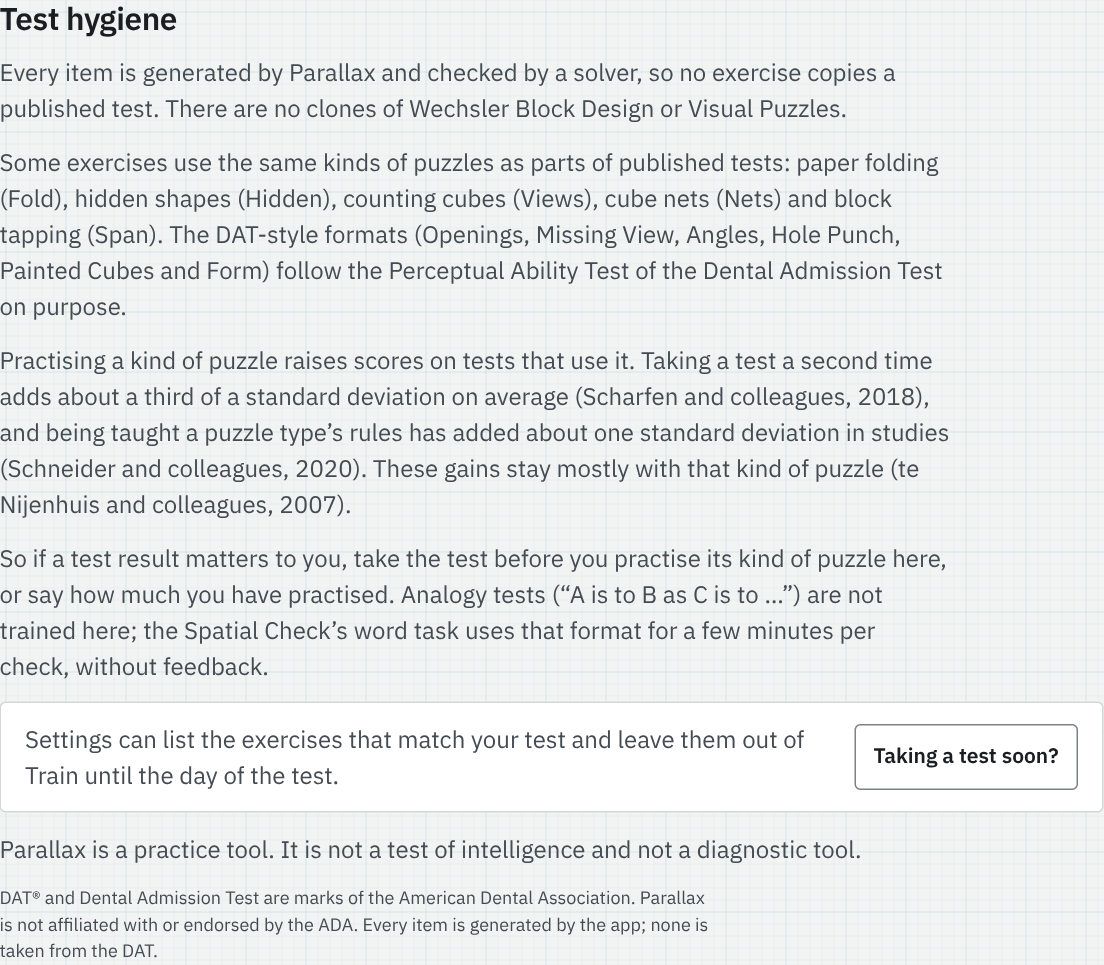
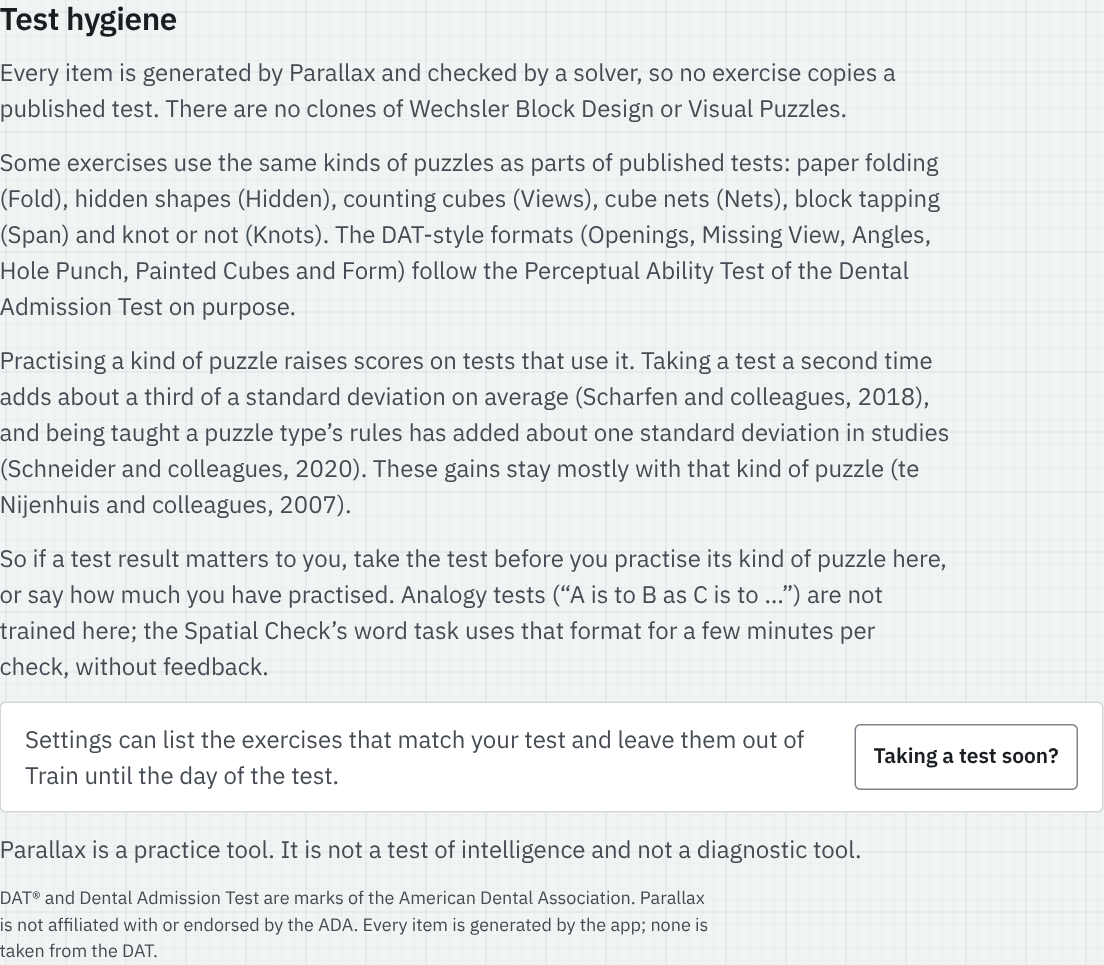
G1: guide finished with Reckon/Homing/Knots changes; figures re-shot; PDF 50 pages clean

Changed region(s): [[0.0, 0.1865, 0.8623, 0.342]]

diff --git a/docs/guide/guide.html b/docs/guide/guide.html
@@ -91,7 +91,7 @@
       </div>
       <div class="panel">
         <h3>Knots <span class="spec">EX-13</span></h3>
-        <p>Pull both ends: does a knot remain? Which marked crossing, switched, unties the rope, or ties it? Are two loops linked? Every answer is proved before you see the item, by the moves that take a rope apart, a determinant or the Jones polynomial, and Show me replays the proof. <span class="see">Page <span class="pgref" data-for="ex-knots"></span></span></p>
+        <p>Pull both ends: does a knot remain? Which marked crossing, switched, unties the rope, or ties it? Are two loops linked? Every answer is proved before you see the item, by the moves that take a rope apart, a determinant or the Jones polynomial; Show me replays the moves, checking each one. <span class="see">Page <span class="pgref" data-for="ex-knots"></span></span></p>
       </div>
       <div class="panel">
         <h3>Six DAT-style formats <span class="spec">EX-14 to EX-19</span></h3>
@@ -440,7 +440,7 @@
           <h3>Where spatial thinking is used</h3>
           <p>Each card says honestly where its skill shows up, with the limitation next to it. Rotate's reads: <i>"Chemists ask the same question about molecules (is this drawing the same molecule or its mirror image?). Engineers turn objects in their heads too. Practice here improves this kind of task and often similar ones; it has not been shown to improve grades or job performance."</i></p>
           <h3>Also in tests</h3>
-          <p>Exercises whose format parts of published tests share, such as Fold, Hidden, Views (counting), Nets, Span and the six test formats, carry an "Also in tests" note on their page and in How to play (page <span class="pgref" data-for="hygiene"></span>).</p>
+          <p>Exercises whose format parts of published tests share, such as Fold, Hidden, Views (counting), Nets, Span, Knots and the six test formats, carry an "Also in tests" note on their page and in How to play (page <span class="pgref" data-for="hygiene"></span>).</p>
           <h3>Same model, same answer</h3>
           <p>A solver checks every item before you see it; cheap shortcuts (counting cubes or holes, the odd one out, the shape as seen from here) must score near chance; show-me is drawn from the model that grades your answer. Chapter 8 gives the limits.</p>
         </div>
@@ -700,8 +700,8 @@
       <header class="ex-head"><span class="spec">EX-11 · Homing · NAV</span><h2>Homing</h2><span class="kind">Navigation with landmarks</span><span class="badge warn">experimental</span></header>
       <div class="ex-body">
         <div class="ex-figs">
-          <figure><div class="shot"><img src="../shots/ex11-homing.png" alt="Homing: a first-person view of a plain with a windmill on the horizon, an arrow circle and fine-turn buttons"></div><figcaption><span class="label">Question</span>On the walk: a windmill on the horizon is a landmark. The circle and the turn buttons wait.</figcaption></figure>
-          <figure><div class="shot"><img src="../shots/ex11-homing-showme.png" alt="Homing show me: the route from above with its turn and three landmarks, and your arrow on the circle"></div><figcaption><span class="label">Show me, paused</span>The route from above, with its 137° turn and three landmarks.</figcaption></figure>
+          <figure><div class="shot"><img src="../shots/ex11-homing.png" alt="Homing: a first-person view of a plain with marks on the ground, an arrow circle and fine-turn buttons"></div><figcaption><span class="label">Question</span>On the walk: the circle and the turn buttons wait until the route ends.</figcaption></figure>
+          <figure><div class="shot"><img src="../shots/ex11-homing-showme.png" alt="Homing show me: the route from above with its turn and three landmarks, your arrow on the circle, and a hint about the slip"></div><figcaption><span class="label">Show me, paused</span>The route from above, with its 122° turn and three landmarks; a hint names the slip.</figcaption></figure>
         </div>
         <div class="ex-text">
           <p><span class="rk">Trains</span>Navigation (NAV): keeping track of where you started as you move, with far landmarks as fixes on the easier levels. Extrinsic-dynamic. <b>Experimental.</b> It is the landmark-aided stage before Reckon.</p>
@@ -726,12 +726,12 @@
         </div>
         <div class="ex-text">
           <p><span class="rk">Trains</span>Navigation (NAV): path integration by dead reckoning, keeping track of home from your own turns and steps alone. Extrinsic-dynamic. <b>Experimental;</b> rated per screen size.</p>
-          <p><span class="rk">How to play</span>Watch a walk of 2 to 4 legs across an endless plain. <b>Point:</b> turn to face the start and confirm. <b>Return:</b> turn, then hold Walk (↑) to walk back, Back (↓) to step back, and tap Here (Enter) where the start is. Nothing in the world, the sky or the screen marks a place, and speeds vary, so seconds do not measure distance (page <span class="pgref" data-for="nav-phone"></span>).</p>
+          <p><span class="rk">How to play</span>Watch a walk of 2 to 4 legs across an endless plain. <b>Point:</b> turn to face the start and confirm. <b>Return:</b> turn, then hold Walk (↑) to walk back, Back (↓) to step back, and tap Here (Enter) where the start is. Nothing in the world, the sky or the screen marks a place; above the first speed level, speeds vary, so seconds do not measure distance (page <span class="pgref" data-for="nav-phone"></span>).</p>
           <span class="rk">Difficulty grows with</span>
           <ul class="dims">
             <li><span class="k">Route</span><span>Homing's eight steps</span></li>
             <li><span class="k">Ground</span><span>textured → sparse → short-lived dots that fade within about a second</span></li>
-            <li><span class="k">Speed</span><span>steady, about 1.8 m/s → varied between legs (1.2 to 2.0 m/s) → varied within legs</span></li>
+            <li><span class="k">Speed</span><span>steady, about 1.8 m/s → varied between legs (0.5 to 2.0 m/s) → within legs too</span></li>
             <li><span class="k">Tolerance</span><span>±40°, 30° or 20°; on return items within 50, 35 or 25 % of the way back</span></li>
           </ul>
           <p class="strat"><span class="rk">Strategies</span><b>Picture the shape from above,</b> most accurate on longer routes, or <b>keep the start as a direction from you,</b> updated with every turn and leg, quick when the turns come fast. <span class="rk">Switch</span>after two misses in a row.</p>
@@ -747,9 +747,9 @@
   <div class="content">
     <h2>Navigation without fixes</h2>
     <div class="phone-row narrow">
-      <figure class="app-fig phone"><div class="shot"><img src="../shots/app-homing-phone.png" alt="Homing on a phone: a mountain on the horizon, the arrow circle turned 60 degrees right, fine-turn buttons and Confirm"></div>
-        <figcaption><span class="label">Fig. 3.2</span>Homing on a phone, turned 60° right; the mountain is a landmark.</figcaption></figure>
-      <figure class="app-fig phone"><div class="shot"><img src="../shots/app-reckon-phone.png" alt="Reckon on a phone during the walk back: the circle set at 145 degrees right, and Back, Walk and Here"></div>
+      <figure class="app-fig phone"><div class="shot"><img src="../shots/app-homing-phone.png" alt="Homing on a phone: a far landmark at the right edge of the horizon, the arrow circle turned 60 degrees right, fine-turn buttons and Confirm"></div>
+        <figcaption><span class="label">Fig. 3.2</span>Homing on a phone, turned 60° right; a far landmark stands at the right edge.</figcaption></figure>
+      <figure class="app-fig phone"><div class="shot"><img src="../shots/app-reckon-phone.png" alt="Reckon on a phone during the walk back: the circle set at 139 degrees right, and Back, Walk and Here"></div>
         <figcaption><span class="label">Fig. 3.3</span>Reckon on a phone, part of the way back.</figcaption></figure>
       <div>
         <h3>Why Reckon has no landmarks</h3>
@@ -759,7 +759,7 @@
           <li>ground marks laid out anew for every item: they show turning and walking, but mark no place;</li>
           <li>a start ring that is gone once you leave it;</li>
           <li>no map, compass or counter during the walk;</li>
-          <li>speeds that change, so seconds do not measure distance.</li>
+          <li>above the first speed level, speeds that change, so seconds do not measure distance.</li>
         </ul>
         <p>Homing keeps its landmarks as the easier stage before Reckon.</p>
       </div>
@@ -767,13 +767,13 @@
     <div class="cols">
       <div>
         <h3>Feedback that trains the error</h3>
-        <p>A Reckon answer is right within the tolerance, and only that moves your rating. The feedback says more: the angle error; on return items the distance error and the drift, how far off you ended per metre walked; a hint when an answer matches a typical slip (turns left out, left and right swapped, turning straight round, a heading never updated); and, after five routes, your habit over the last 20, turning too far or too little and walking short or long, with a chart. Harder items bring tighter tolerances.</p>
-        <p>Answers that skip the work (turns reversed, heading not updated, the mirror image) always miss by more than the tolerance. Routes run 12 to 28 m, the start lies 5 to 20 m away, and no walk moves for more than 30 seconds.</p>
+        <p>A Reckon answer is right within the tolerance, and only that moves your rating. The feedback says more: the angle error; on return items the distance error and the drift, how far off you ended per metre walked; a hint when an answer matches a typical slip (turns left out, left and right swapped, turning straight round, a heading never updated); and, after five routes, your habit over the last 20, turning too far or too little and walking short or long, with a chart. Harder items bring tighter tolerances. The trial log keeps the signed angle error and, on walks back, the distance walked as a share of the true one, so pooled data can tell the two apart.</p>
+        <p>Answers that need no tracking (the turns reversed, a heading never updated, the mirror image) always miss, and turning straight round or giving one fixed answer stays near chance wherever the routes allow. As the Library says: "On the easier routes the turns alone tell you much of the way home; distances matter more with bigger turns, at tighter tolerances and when you walk back." Routes run 12 to 28 m, the start lies 5 to 20 m away, and no walk moves for more than 30 seconds.</p>
       </div>
       <div>
         <h3>Touch, and comfort</h3>
-        <p>Both exercises play by touch: drag the view to turn, then fine-tune with the 1° and 5° buttons; captions sit over the view as subtitles, and held sideways the view and the controls sit side by side. Pause freezes the walk at once. The motion is gentle: Homing walks at 1.8 m/s, Reckon between 1.2 and 2.0 m/s, and turns run at 45°/s at most, with soft starts and stops. If the motion makes you feel unwell, pause or stop.</p>
-        <p>A trial is voided only when the walk itself was harmed: a freeze of more than a second while moving, slow frames for more than half of it, a lost 3D view, the view changing shape, or a pause. Homing's items changed in 1.1, so its new trials are logged as version 2.</p>
+        <p>Both exercises play by touch: drag the view to turn, then fine-tune with the 1° and 5° buttons; captions sit over the view as subtitles, and held sideways the view and the controls sit side by side. Pause freezes the walk at once. The motion is gentle: Homing walks at 1.8 m/s; Reckon too on its steady level, and between 0.5 and 2.0 m/s above it, so a leg's walking time says little about its length. Turns run at 45°/s at most, with soft starts and stops. If the motion makes you feel unwell, pause or stop.</p>
+        <p>A trial is voided only when the walk itself was harmed: a freeze of more than a second while moving, slow frames for more than half of it, a lost 3D view, the screen changing shape during the walk or while you answer, or a pause. Homing's items changed in 1.1, so its new trials are logged as version 2.</p>
       </div>
     </div>
   </div>
@@ -843,13 +843,13 @@
       </div>
       <div class="cols">
         <div>
-          <p><b>1 · Take it apart.</b> Apply the moves wherever they remove crossings. If every crossing comes off, there is no knot, and that list of moves is the Show me you watch.</p>
+          <p><b>1 · Take it apart.</b> Apply the moves wherever they remove crossings. If every crossing comes off, there is no knot. Show me replays these moves, checking each one, and stops with a caption where one cannot be drawn safely.</p>
           <p><b>2 · A determinant.</b> If crossings remain, compute the diagram's determinant (by Fox colouring). A rope without a knot always gives 1, so any other number proves a knot.</p>
-          <p><b>3 · The Jones polynomial.</b> Otherwise try slide-overs and the moves again, then the Jones polynomial: for diagrams of up to 24 crossings it equals 1 only when there is no knot <span class="cite">(Tuzun &amp; Sikora)</span>. Ropes here have at most 12.</p>
+          <p><b>3 · The Jones polynomial.</b> Otherwise slide-overs and the moves again, then the Jones polynomial, which for up to 24 crossings equals 1 only without a knot <span class="cite">(Tuzun &amp; Sikora)</span>; ropes here have at most 12.</p>
         </div>
         <div>
           <p><b>Untie and tie</b>: switched, exactly one of the four marked crossings changes the answer. <b>Linked</b> loops are proved by a linking number other than zero or by the Jones polynomial; <b>apart</b> only by moves that leave no crossing between them.</p>
-          <p><b>No cheap tells.</b> Each knot is paired with a plain rope from the same outline, matched on over-under alternation, twist and the moves in plain sight. Unpaired, alternation alone told knots apart 75 to 92 % of the time; paired, no cheap rule tested beat 52.3 % on Pull, where guessing scores 50 %.</p>
+          <p><b>No cheap tells.</b> Each knot is paired with a plain rope from the same outline, matched on over-under alternation, twist and the moves in plain sight. Unpaired, alternation alone told knots apart 75 to 92 % of the time; paired, no cheap rule tested beat 52.3 % on Pull, where guessing scores 50 %, or 33 % on Untie and Tie, where it scores 25 %.</p>
         </div>
       </div>
     </div>
@@ -1604,7 +1604,7 @@
         <h2>No clones of clinical tests</h2>
         <p>Parallax has no version of Wechsler Block Design or Visual Puzzles, the two subtests of the Wechsler Visual Spatial Index, and no packing or piece-assembly tasks that resemble them. On retest, the perceptual-reasoning subtests that include them show the largest practice effects <span class="cite">(Canivez, 2010)</span>. Practising their formats would inflate exactly the scores that psychologists use, probably without changing the ability <span class="cite">(Scharfen et al., 2018; te Nijenhuis et al., 2007)</span>, and would invite claims such as "my VSI went up". No Parallax score is called VSI, and no item, figure or layout is copied from a published test: every item is generated.</p>
         <h2>Formats you may meet elsewhere</h2>
-        <p>Several exercises share a format with parts of published tests: paper folding, hidden shapes, counting cubes, cube nets, block tapping, and the six test formats of page <span class="pgref" data-for="dat"></span>, on purpose. A gain on such a test after practice here is near transfer, not mid transfer. The next page gives the formats, the size of practice effects, and what Parallax does about them.</p>
+        <p>Several exercises share a format with parts of published tests: paper folding, hidden shapes, counting cubes, cube nets, block tapping, knots pulled tight, and the six test formats of page <span class="pgref" data-for="dat"></span>, on purpose. A gain on such a test after practice here is near transfer, not mid transfer. The next page gives the formats, the size of practice effects, and what Parallax does about them.</p>
         <div class="panel signal">
           <span class="label">If you take a test</span>
           <p>Take a test that matters before you practise its kind of puzzle here, or mention your practice: for a clinical, school or job assessment with spatial tasks, say that you have practised similar tasks, so the result can be read fairly. Settings has a "Taking a test soon?" helper (page <span class="pgref" data-for="hygiene"></span>).</p>
@@ -1649,7 +1649,7 @@
             <tr><td>Nets, Form</td><td>folding a net into a cube or solid</td><td>a note</td></tr>
             <tr><td>Span</td><td>tapping blocks in order, as in clinical memory tests</td><td>a note</td></tr>
             <tr><td>Openings, Missing View, Angles</td><td>openings, views and angle ranking: with Hole Punch, Painted Cubes and Form, the six DAT-style formats follow the Perceptual Ability Test on purpose</td><td>a note</td></tr>
-            <tr><td>Knots (Pull)</td><td>"knot or not" items in a design entrance exam, a maths competition and a research test of knot reasoning</td><td>none yet</td></tr>
+            <tr><td>Knots (Pull)</td><td>"knot or not" items in a design entrance exam, a maths competition and a research test of knot reasoning</td><td>a note</td></tr>
             <tr><td>Slice, Orient, Homing, Reckon, Rotate, Spin</td><td>cross-sections, directions and maps, turned or mirrored figures</td><td>related only</td></tr>
           </tbody>
         </table>
@@ -1741,7 +1741,7 @@
           <thead><tr><th style="width:36mm">Export</th><th>What it holds</th></tr></thead>
           <tbody>
             <tr><td><b>Backup</b> (JSON)</td><td>The whole record: ratings, sessions, trials, Spatial Checks with their one-tap answers, Threshold runs, Section runs, strategy check-ins, the tests you noted, the focus switches, achievements, settings. The only format that can be imported again.</td></tr>
-            <tr><td><b>Trials</b> (CSV)</td><td>One row per trial: time, exercise and its version, mode, session, settings, seed, outcome, response time, the predicted chance of a right answer, the interleaving stage, the screen class, the input, and a second number where an exercise reports one. For a spreadsheet; cannot be imported.</td></tr>
+            <tr><td><b>Trials</b> (CSV)</td><td>One row per trial: time, exercise and its version, mode, session, settings, seed, outcome, response time, the predicted chance of a right answer, the interleaving stage, the screen class, the input, and a second number where an exercise reports one (Reckon: on walks back, the distance walked as a share of the true one). For a spreadsheet; cannot be imported.</td></tr>
             <tr><td><b>Research</b> (CSV, in the Lab)</td><td>The trial rows plus each item's difficulty and guessing rate under the current item model (chapter 10).</td></tr>
           </tbody>
         </table>

diff --git a/docs/dev/progress/G1.md b/docs/dev/progress/G1.md
@@ -7,6 +7,7 @@ Does not touch: js/, css/, tests/. Does not run git.
 - 16:14 UTC: started. Read GUIDE-v1.1.md, PLAN, DECISIONS, B1–B7 logs, reviews (A, B, section-overlap), the whole guide, its CSS, shots.py, build-pdf.py, R1–R4 (relevant sections), I1/I2 summaries, every new gen.js header and learn.js, about/overlap/check/settings/library/section/lab code.
 - 16:35 UTC: fact sheet below written. Next: guide pages (what's new, ch2 phone, ch3 cards, DAT spread, ch4 section+clock, ch5, ch6, ch7, ch8, ch9–13), then shots, then PDF.
 - 17:10 UTC: overflows fixed (build clean at 50 pages, no overflow). README and CHANGELOG written. Fixed table: added Today's order, the deadline bar and the paint-stamp deadline (I1 B5, B11, T7 edge; fixed per B1). CSV now 18 columns (value2): guide's trial-row texts updated. Re-shooting ex16–ex18 (B5 done); waiting for B6, B3, B4 fix rounds.
+- 18:16 UTC: DONE. B3/B4 facts in (Reckon 0.5–2.0 m/s above steady, Library note quoted on the nav page, value/value2, answer-phase turn voids, no-tracking answers, Knots show-me checks every move and stops with a caption, untie/tie cues ≤ 33 %, Knots "Also in tests" in the hygiene table, Library card and formats list; CHANGELOG Homing/Reckon/Knots/test hygiene lines). Re-shot ex11, ex12, ex13 (+untie), app-homing-phone, app-reckon-phone, app-about-hygiene (now lists Knots), app-library-pat; captions fixed (Homing 122° turn, phone landmark, Reckon 139°). ex14/15/19 were already shot after B6's last edit. Final build: 50 pages, no overflow, 198 link annotations (93 URLs) + 14 internal.
 - 18:01 UTC: lead's go: B3 (0c8daf6) and B4 (d64824a) done. Doing "Remaining after B3 and B4" + lead's items (speeds 0.5–2.0 m/s above steady, decision (a) note in the Library's wording, value/value2, answer-phase turn voids, Knots show-me checks every move, Knots "Also in tests" note, CHANGELOG lines).
 - 17:25 UTC: clean build (50 pages, no overflow, every link clickable). Added Fig. 4.1 app-clock-pause (new shot: paused 5-minute Free play on a phone, HUD "about 4 min left"); Section review is now Fig. 4.2. Cover label reads "Parallax 1.1.0 · user guide". Waiting for B3 (Reckon/Homing) and B4 (Knots) fix rounds: then re-read their gen/learn, update numbers and re-shoot homing, reckon, knots, ex13-knots-untie, app-homing-phone, app-reckon-phone.
 - 17:20 UTC: lead's note received (B6 e5e1508, B5 2c411d7, B1 1563106 done; B3, B4 still in fix rounds: leave Reckon/Homing/Knots numbers and figures for last, the lead will say when done). Done: B6 texts (Openings features per face, fitting face mixes, foils, scale; Missing View second search; Form marks, foils, two checks), Hole Punch "re-simulation checks every drawn step", clock page (check time not practice; HUD rounds down), ex14/15/19 and ex16/17/18 re-shot and viewed, captions rewritten. build-pdf now also checks .fmt-card overflow (it was clipped silently by overflow: hidden).
@@ -32,7 +33,7 @@ Does not touch: js/, css/, tests/. Does not run git.
 
 - Fix rounds that touch guide facts (re-check before the final PDF): B6 (RV-dat-style-B: Openings features 1+1+1 … 2+2+2, fitting face mixes, proportion foils, scale; Form marks; Missing View second search), B3 (RV-reckon-homing: speed levels, turn-only shortcuts, tips, value2), B4 (RV-knots: show-me frames, captions, untie cues). B5 done: Angles six arm cues + answer-only rules; Hole Punch items unchanged; Painted Cubes Section asks ≤ 3 per figure (section.js PER_FIGURE = 3).
 
-## Remaining after B3 and B4 (exact steps, in case this run is interrupted)
+## Remaining after B3 and B4 (done at the entry above)
 1. Re-read js/ex/homing/gen.js (header: speed, turn rate, ramps, legs, route length, longest route), js/ex/reckon/gen.js (header: speeds per level, home distance, route length, motion cap, shortcut rules) and learn.js tips; js/ex/knots/gen.js header and learn.js (captions, untie tip), tests/node/knots.test.mjs bounds.
 2. Update guide.html: What's new Reckon/Knots panels; Homing card ("1.8 m/s … 45°/s … routes of 12 to 28 m"); Reckon card (How to play "2 to 4 legs", dims Speed row); nav page ("Routes run 12 to 28 m, the start lies 5 to 20 m away, … 30 seconds"; shortcut sentence; "Homing walks at 1.8 m/s, Reckon between 1.2 and 2.0 m/s"); Knots card + proofs page ("52.3 % on Pull"); CHANGELOG Homing/Reckon/Knots bullets.
 3. Re-shoot: `tests/e2e/pwslot.sh python3 tools/shots.py homing reckon knots ex13-knots-untie app-homing-phone app-reckon-phone`, view each, fix captions (ex11 "137° turn", ex12, ex13 "8 crossings", untie "crossing D", Fig 3.2/3.3).
@@ -40,5 +41,5 @@ Does not touch: js/, css/, tests/. Does not run git.
 
 ## For the lead
 - ENGINE.md §11 lists Lab cluster B without Reckon; js/engine/model.js lab.B includes 'reckon' (the Lab screen shows Reckon in group B).
-- Knots (Pull) has no "Also in tests" note: js/ui/overlap.js NEAR lists fold, hidden, views, nets, span (+ the six DAT-style), but R2 §1.7 calls Pull "format-near" to UCEED 2022, Math Kangaroo 2025 and the Knot Reasoning Task's pulling items ("gains there count as near transfer"). The guide's Test hygiene table lists Knots (Pull) with "none yet" in the app column; add a note in overlap.js if you agree, then change that cell to "a note".
+- (resolved: lead added the Knots note in overlap.js; DECISIONS "(G1)") Knots (Pull) "Also in tests" note; the guide's hygiene table now says "a note".
 - (resolved by B6's fix round) Openings scale: the view now draws solid and openings at one scale (view.js fitScale); the guide says "drawn at the solid's scale".

diff --git a/CHANGELOG.md b/CHANGELOG.md
@@ -29,21 +29,29 @@ The first update, built by the Chimera community on Discord (https://discord.gg/
   iPad and in-app browsers the welcome explains where progress is kept and offers backups; served
   over https, Parallax has a web manifest and icons for the home screen. Track, Homing, Reckon and
   Angles keep separate ratings for small and large screens.
-- **Homing, rebuilt for touch (version 2):** slower, smoother motion (1.8 m/s, turns at 45°/s, 0.4
-  s ramps), routes of 12 to 28 m, and touch controls (drag the view, a dial, 1° and 5° buttons). A
-  trial is voided only when the walk itself was harmed. Its trials are logged as version 2.
+- **Homing, rebuilt for touch (version 2):** slower, smoother motion (1.8 m/s, turns at 45°/s,
+  0.4-second ramps), routes of 12 to 28 m, and touch controls (drag the view, a dial, 1° and 5°
+  buttons). Routes are chosen so that answers that need no tracking (the turns reversed, a heading
+  never updated) miss, and turning straight round or a fixed answer stays near chance wherever the
+  routes allow. A trial is voided only when the walk itself was harmed, or when the screen changes
+  shape while you answer. The strategy card's side error, there since 1.0, is fixed. Its trials are
+  logged as version 2.
 - **Reckon (EX-12, experimental):** path integration without landmarks. Watch a walk across an
   empty plain, with no objects, no sun and no compass, then point home or walk home. The ground's
-  marks show motion but mark no place; harder levels thin them out or make them short-lived, and
-  speeds and turn rates vary so that seconds do not measure distance. After every answer: the angle
-  error, the distance error, the drift per metre walked, and your habit over the last 20 routes. A
-  community member pointed out that Homing's landmarks correct the very dead-reckoning errors that
-  this training should work on; Homing stays as the landmark-aided stage before Reckon.
+  marks show motion but mark no place; harder levels thin them out or make them short-lived. Above
+  the steady level, speeds vary from 0.5 to 2.0 m/s, so a leg's walking time says little about its
+  length. After every answer: the angle error, the distance error, the drift per metre walked, and
+  your habit over the last 20 routes; the trial log keeps the angle error and, on walks back, the
+  distance ratio (walked ÷ true) in separate columns. On the easier routes the turns alone tell you
+  much of the way home; distances matter more with bigger turns, at tighter tolerances and when you
+  walk back. A community member pointed out that Homing's landmarks correct the very dead-reckoning
+  errors that this training should work on; Homing stays as the landmark-aided stage before Reckon.
 - **Knots (EX-13):** pull both ends, does a knot remain? Which marked crossing, switched, unties
   the rope, or ties it? Are two loops linked? Ropes of 5 to 12 crossings in three spacings. Every
   answer is proved before the item is shown: by the simplification moves that take a rope apart, by
-  a determinant that shows a knot remains, or by the Jones polynomial, and Show me replays the
-  proof. The mirror variant was not built.
+  a determinant that shows a knot remains, or by the Jones polynomial. Show me replays the moves
+  and checks every one before it is drawn; where a move cannot be drawn safely, it stops with a
+  caption that says how it ends. The mirror variant was not built.
 - **Six DAT-style formats (EX-14 to EX-19):** Openings, Missing View, Angles (labelled
   perceptual-judgement practice), Hole Punch, Painted Cubes and Form practise the question formats
   of the Perceptual Ability Test in the Dental Admission Test (DAT®). They join Train and Today's
@@ -57,11 +65,11 @@ The first update, built by the Chimera community on Discord (https://discord.gg/
   within the current part; warnings come at 5 and 1 minutes left. No feedback until the review:
   results and pacing per part, then the items to look at again, each with its show-me. It changes
   no level and gives no score. A full section earns the new achievement "Full section" (21 in all).
-- **Test hygiene:** "Also in tests" notes on Fold, Hidden, Views, Nets, Span and the six DAT-style
-  formats; a Test hygiene section in About with the size of practice effects; on later Spatial
-  Checks, one question about outside tests and practice since the last check, kept with your data
-  and never scored; and a "Taking a test soon?" helper in Settings that lists the matching
-  exercises and can leave them out of Train and Today's plan until the day of your test.
+- **Test hygiene:** "Also in tests" notes on Fold, Hidden, Views, Nets, Span, Knots and the six
+  DAT-style formats; a Test hygiene section in About with the size of practice effects; on later
+  Spatial Checks, one question about outside tests and practice since the last check, kept with
+  your data and never scored; and a "Taking a test soon?" helper in Settings that lists the
+  matching exercises and can leave them out of Train and Today's plan until the day of your test.
 - **Your record:** format 2. A 1.0 record upgrades the first time 1.1 opens it, with nothing lost;
   a 1.0 tab still open elsewhere then runs from memory instead of overwriting the newer record.
   Every trial gains its screen class (small or large) and its input (mouse, touch, pen or keys),
